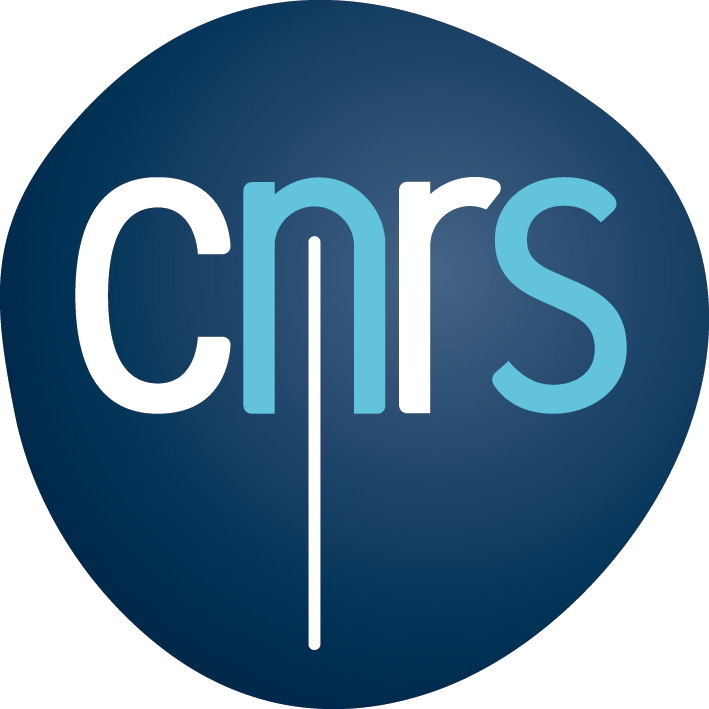
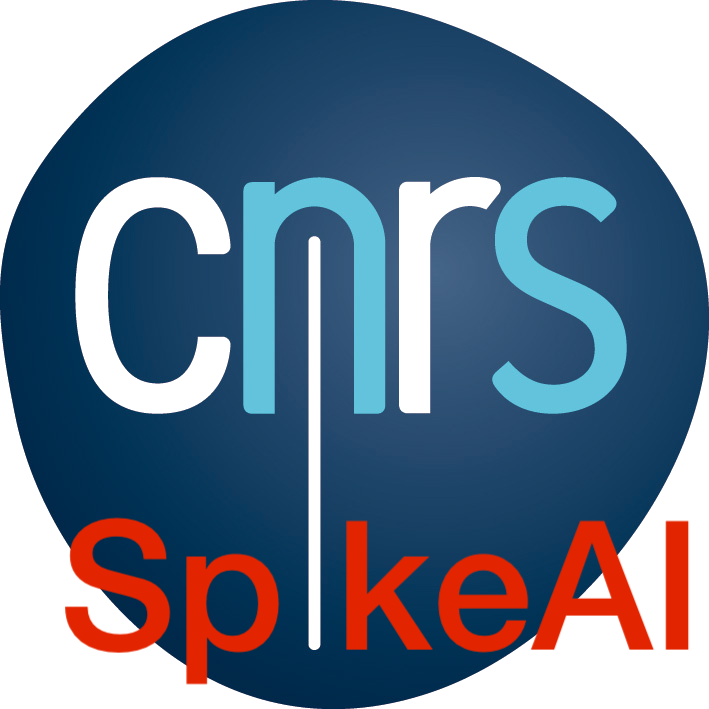
rebuilding site Wed Oct  9 10:51:05 CEST 2019

Changed region(s): [[0.4654, 0.7137, 0.9929, 0.9309], [0.0931, 0.7137, 0.4034, 0.9619]]

diff --git a/index.html b/index.html
@@ -5344,7 +5344,7 @@
     
     
     <a href="/grant/spikeai/"  class="card-image hover-overlay">
-      <img src="/grant/spikeai/featured_hu9169863187ae7cf7c246774561429e61_162935_550x0_resize_q90_lanczos_2.png" alt="" class="img-responsive">
+      <img src="/grant/spikeai/featured_huf1b05ff6317052c34d59704b12bfa116_214441_550x0_resize_q90_lanczos_2.png" alt="" class="img-responsive">
     </a>
     
     <div class="card-text">
